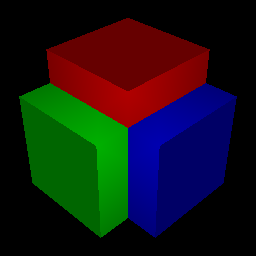
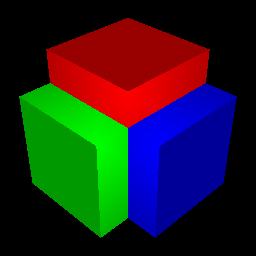
update

diff --git a/src/logo.c b/src/logo.c
@@ -17,22 +17,23 @@ GLfloat lightblk[] = {0.0f, 0.0f, 0.0f, 1.0f};
 void display(void){
 	const float csz = 1.5;
 	const float sp = 0.5;
+	const float cm = 0.75;
 
 	glClear(GL_COLOR_BUFFER_BIT | GL_DEPTH_BUFFER_BIT);
 
-	glColor3ub(128, 0, 0);
+	glColor3f(cm, 0, 0);
 	glPushMatrix();
 	glTranslatef(0, sp, 0);
 	glutSolidCube(csz);
 	glPopMatrix();
 
-	glColor3ub(0, 128, 0);
+	glColor3f(0, cm, 0);
 	glPushMatrix();
 	glTranslatef(0, 0, sp);
 	glutSolidCube(csz);
 	glPopMatrix();
 
-	glColor3ub(0, 0, 128);
+	glColor3f(0, 0, cm);
 	glPushMatrix();
 	glTranslatef(sp, 0, 0);
 	glutSolidCube(csz);
